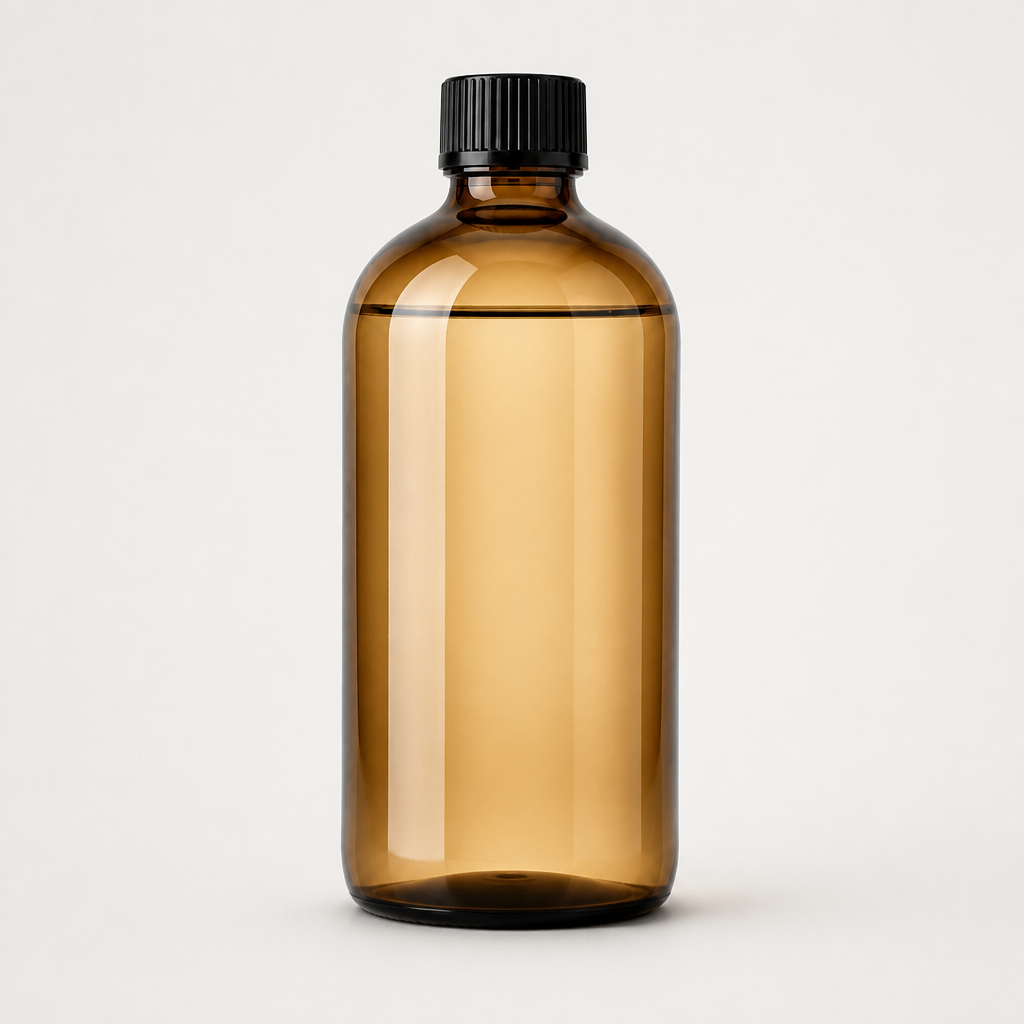
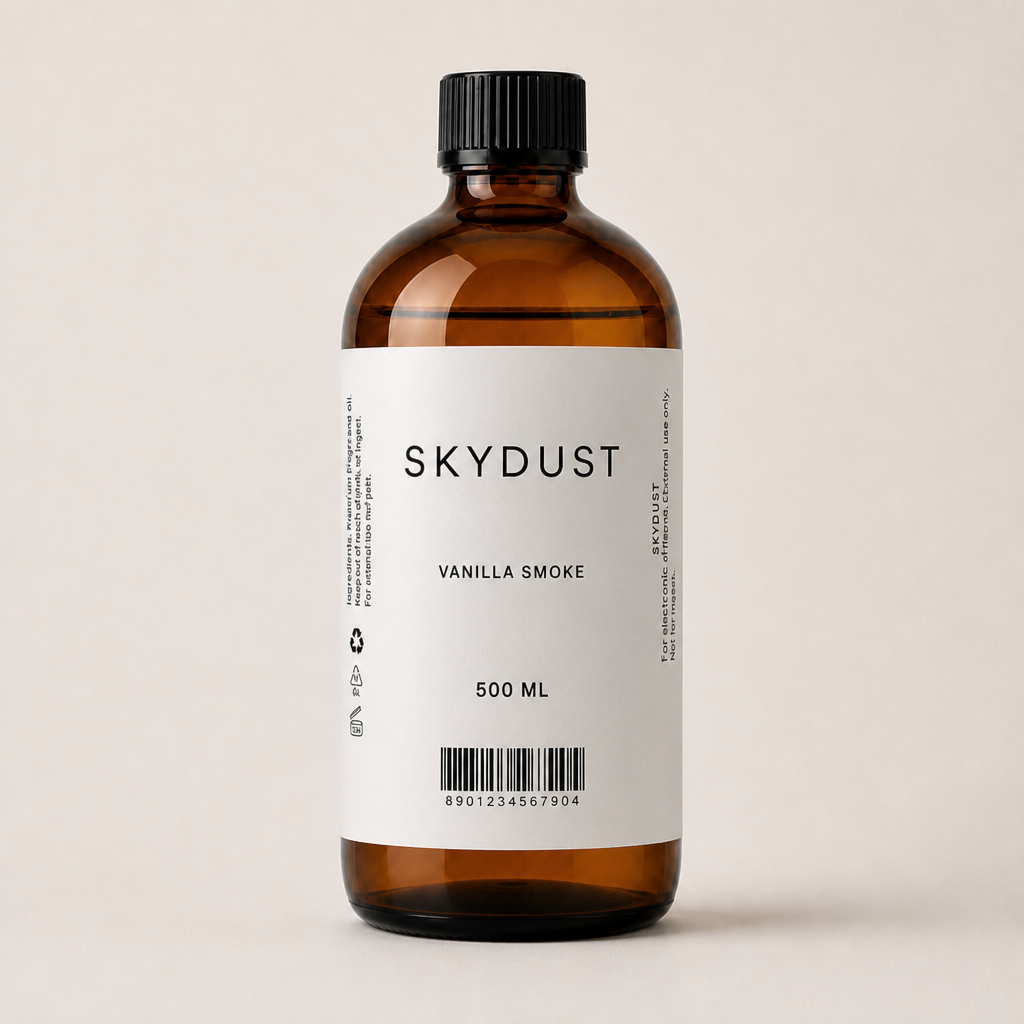
it is my saas

diff --git a/app/components/ProductPhoto.tsx b/app/components/ProductPhoto.tsx
@@ -22,7 +22,7 @@ export function ProductPhoto({
 
   return (
     <div
-      className={`relative overflow-hidden bg-[#f4f2ee] ${
+      className={`relative overflow-hidden bg-[#f6f4f0] ${
         size === "thumb" ? "h-24 w-24" : "aspect-square"
       } ${product.stock <= 0 ? "grayscale-[0.35]" : ""}`}
     >
@@ -33,85 +33,10 @@ export function ProductPhoto({
           fill
           priority={priority}
           sizes={sizes}
-          className="object-contain p-2 sm:p-3"
+          className="object-contain p-1 sm:p-2"
         />
-        {size !== "thumb" ? <BottleLabel product={product} size={size} /> : null}
       </div>
       {size !== "thumb" ? <StockBadge stock={product.stock} /> : null}
-    </div>
-  );
-}
-
-function BottleLabel({ product, size }: { product: Product; size: PhotoSize }) {
-  const hero = size === "hero";
-  const onBottle = product.kind === "bottle";
-
-  return (
-    <div
-      className={`bottle-label pointer-events-none absolute left-1/2 z-10 -translate-x-1/2 text-center text-[#1a1a1a] ${
-        onBottle
-          ? hero
-            ? "top-[29%] w-[23%] px-2.5 py-3"
-            : "top-[29%] w-[24%] px-1 py-1.5 sm:px-1.5 sm:py-2"
-          : hero
-            ? "top-[48%] w-[20%] px-2 py-2"
-            : "top-[48%] w-[22%] px-1 py-1 sm:px-1.5 sm:py-1.5"
-      }`}
-    >
-      <Image
-        src="/skydust-logo.png"
-        alt="SKYDUST"
-        width={240}
-        height={48}
-        className={`mx-auto w-[88%] object-contain object-center ${hero ? "h-7" : "h-2.5 sm:h-3.5"}`}
-      />
-      {onBottle ? (
-        <>
-          <span className={`mt-1 block h-px w-full bg-neutral-300 ${hero ? "mt-2" : "mt-1"}`} />
-          <p
-            className={`mt-1 font-medium tracking-[0.18em] text-neutral-500 uppercase ${
-              hero ? "text-[9px]" : "text-[4px] sm:text-[5.5px]"
-            }`}
-          >
-            {product.labelKind}
-          </p>
-          <p
-            className={`font-display leading-tight font-semibold ${
-              hero ? "mt-1 text-[15px]" : "mt-0.5 text-[6px] sm:text-[8px]"
-            }`}
-          >
-            {product.scent}
-          </p>
-          <p
-            className={`font-semibold tracking-wide ${
-              hero ? "mt-1 text-[13px]" : "mt-0.5 text-[6.5px] sm:text-[8px]"
-            }`}
-          >
-            {product.volume}
-          </p>
-          <span className={`block h-px w-full bg-neutral-300 ${hero ? "mt-2 mb-1.5" : "mt-1 mb-0.5"}`} />
-          <p
-            className={`leading-tight text-neutral-500 ${
-              hero ? "text-[8px]" : "hidden text-[4.5px] sm:block sm:text-[5px]"
-            }`}
-          >
-            {product.labelUse}
-          </p>
-          {hero ? (
-            <p className="mt-1 text-[7.5px] leading-tight text-neutral-400">
-              Keep away from heat · External scenting only · Oman & Pakistan
-            </p>
-          ) : null}
-        </>
-      ) : (
-        <p
-          className={`mt-0.5 font-semibold tracking-wide ${
-            hero ? "text-[11px]" : "text-[5.5px] sm:text-[7px]"
-          }`}
-        >
-          {product.volume}
-        </p>
-      )}
     </div>
   );
 }

diff --git a/app/globals.css b/app/globals.css
@@ -75,14 +75,6 @@ html[dir="rtl"] body {
   will-change: transform;
 }
 
-.bottle-label {
-  background: #fffef9;
-  box-shadow:
-    0 1px 2px rgba(28, 25, 23, 0.18),
-    0 0 0 1px rgba(28, 25, 23, 0.06),
-    inset 0 0 0 1px rgba(255, 255, 255, 0.9);
-}
-
 @media (prefers-reduced-motion: reduce) {
   .collection-kenburns,
   .hero-slide-track,
